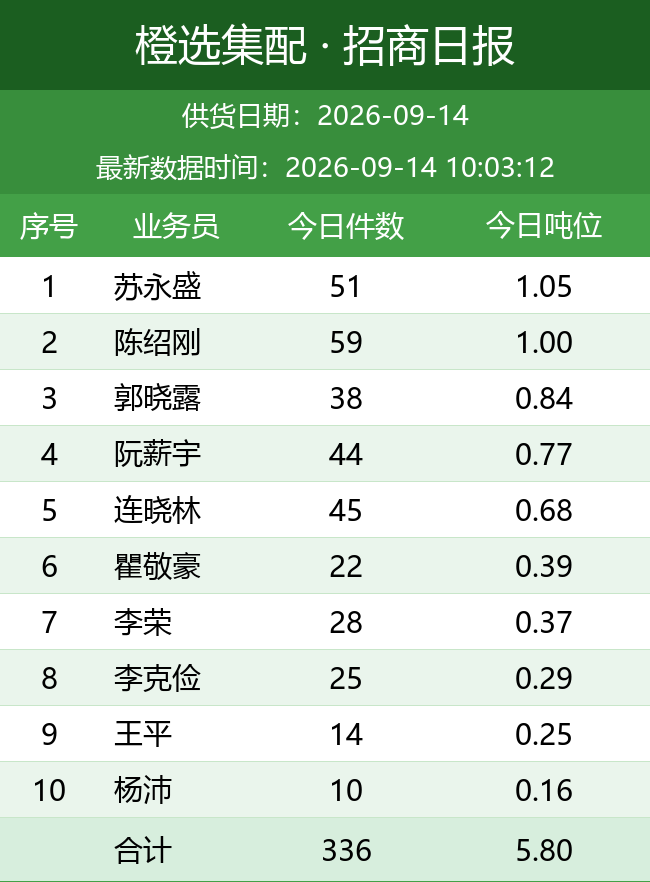
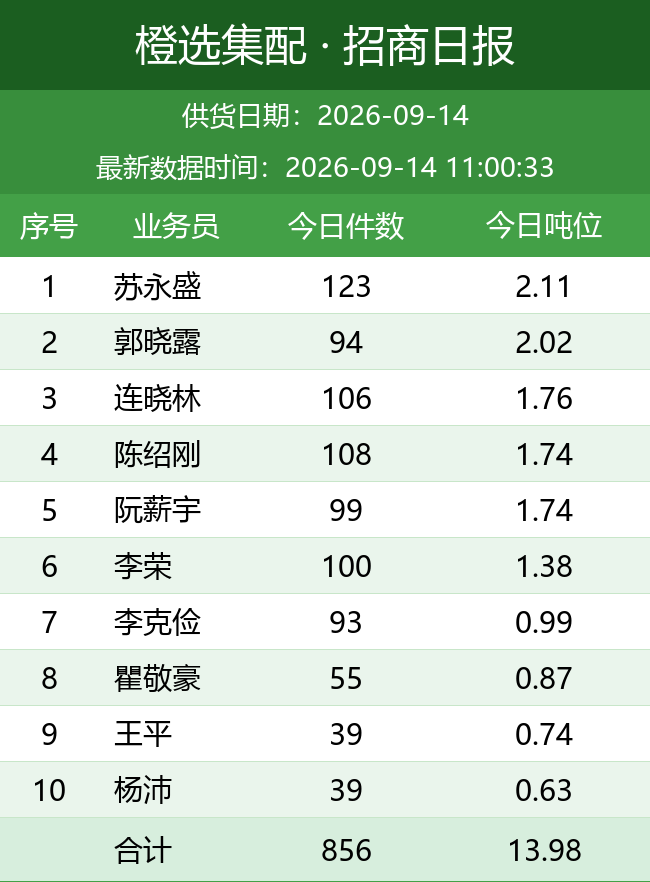
自动更新日报图片

diff --git a/index.html b/index.html
@@ -11,7 +11,7 @@ img { max-width: 100%; border: 1px solid #e5e5e5; margin-bottom: 24px; display: 
 </style>
 </head>
 <body>
-<h1>橙选集配日报图片（20260914_100321）</h1>
+<h1>橙选集配日报图片（20260914_110036）</h1>
 <img src="bd_latest.png" alt="BD 日报">
 <img src="wh_latest.png" alt="城市仓日报">
 <img src="zs_latest.png" alt="招商日报">
